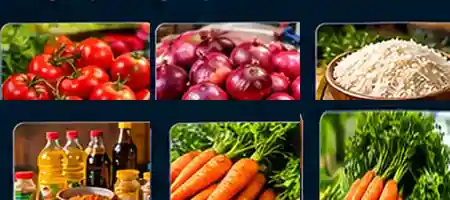
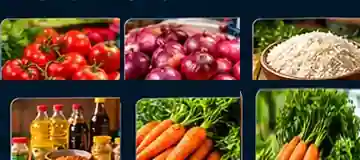
feat: deploy MarketLink dashboard imagery and strengthen tab navigation

diff --git a/frontend/premium-marketlink.js b/frontend/premium-marketlink.js
@@ -19,8 +19,8 @@
   var mlPromoIndex=0,mlPromoTimer=null,mlPromoTouchX=null,mlOnboardTimer=null;
   var mlPromoSlides=[
     {kind:'shop',eyebrow:'THE GAMBIA • LOCAL MARKETPLACE',title:'Groceries delivered',accent:'with care.',body:'Fresh produce, pantry essentials and everyday finds from local sellers across The Gambia.',pill:'SHOP YOUR LOCAL MARKET',image:'./assets/hero-marketlink-bag.webp',cta:'Browse products'},
-    {kind:'sell',eyebrow:'FOR LOCAL BUSINESSES',title:'Your shop. More customers.',accent:'Grow with MarketLink.',body:'Bring your business online, showcase your real products and manage incoming orders in one place.',pill:'SELL ON MARKETLINK',image:'./assets/promo-vendor.webp',cta:'Become a vendor'},
-    {kind:'affiliate',eyebrow:'MARKETLINK AFFILIATE PROGRAM',title:'Share a link.',accent:'Earn 2%.',body:'Share your affiliate link. Earn 2% of eligible discounted merchandise when a referred order is successfully delivered.',pill:'EARN ON ELIGIBLE PURCHASES',image:'./assets/promo-shopping.webp',cta:'Explore affiliate'}
+    {kind:'sell',eyebrow:'FOR LOCAL BUSINESSES',title:'Your shop. More customers.',accent:'Grow with MarketLink.',body:'Bring your business online, showcase your real products and manage incoming orders in one place.',pill:'SELL ON MARKETLINK',image:'./assets/marketlink-promo-atlas.webp',cta:'Become a vendor'},
+    {kind:'affiliate',eyebrow:'MARKETLINK AFFILIATE PROGRAM',title:'Share a link.',accent:'Earn 2%.',body:'Share your affiliate link. Earn 2% of eligible discounted merchandise when a referred order is successfully delivered.',pill:'EARN ON ELIGIBLE PURCHASES',image:'./assets/marketlink-promo-atlas.webp',cta:'Explore affiliate'}
   ];
   function promoSlideMarkup(index,cls){
     var p=mlPromoSlides[(Number(index)||0)%mlPromoSlides.length];
@@ -833,7 +833,7 @@
     if(tab==='home')renderHome();
     else if(tab==='cart')renderCart();
     else if(tab==='orders'){renderLiveOrders();if(typeof startOrderTracking==='function'&&S.order)startOrderTracking();}
-    else if(tab==='profile')renderProfile();
+    else if(tab==='profile'){if(typeof window.renderProfile==='function')window.renderProfile();else renderPremiumProfile();}
     else if(tab==='vendordash')renderVDash();
     else if(tab==='riderdash')renderRDash();
     else if(tab==='admindash')renderAdminDash();

diff --git a/frontend/premium-marketlink.css b/frontend/premium-marketlink.css
@@ -233,6 +233,10 @@
 .ml-promo-official .ml-promo-wordmark{display:block;width:90px;max-height:27px;object-fit:contain;object-position:left center}
 .ml-promo-shop .ml-promo-art-stamp{display:none}
 .ml-promo-shop .ml-promo-copy{padding-top:clamp(52px,7vw,78px)}
+/* Generated campaign atlas uses local-market art on the left and affiliate/sharing art on the right. */
+.ml-promo-sell{background-size:cover,200% 100%!important;background-position:center,left center!important}
+.ml-promo-affiliate{background-size:cover,200% 100%!important;background-position:center,right center!important}
+
 .ml-promo-carousel-head{align-items:center}
 .ml-cat{appearance:none;-webkit-appearance:none;display:flex;flex-direction:column;gap:8px;align-items:stretch;overflow:hidden;padding:0;min-width:110px;max-width:150px;border-radius:15px;color:inherit;text-align:left}
 .ml-cat-photo,.ml-category-photo{display:block;width:100%;aspect-ratio:1.3;background-image:url("./assets/marketlink-category-atlas.webp");background-size:300% 200%;background-repeat:no-repeat;background-position:var(--ml-category-position,0% 0%);background-color:#112b38}

diff --git a/frontend/MarketLink (7).html b/frontend/MarketLink (7).html
@@ -432,7 +432,7 @@ button:active{opacity:0.82;}
 .lm .fab-ai{box-shadow:0 4px 20px rgba(13,115,119,0.4);}
 
 </style>
-<link rel="stylesheet" href="./premium-marketlink.css?v=dashboard-20261012-r6-orders"><script src="./premium-marketlink.js?v=dashboard-20261012-r6-orders" defer></script></head>
+<link rel="stylesheet" href="./premium-marketlink.css?v=market-assets-20261012-r1"><script src="./premium-marketlink.js?v=market-assets-20261012-r1" defer></script></head>
 <body>
 <div id="app">
 <div id="toast"></div>

diff --git a/frontend/index.html b/frontend/index.html
@@ -432,7 +432,7 @@ button:active{opacity:0.82;}
 .lm .fab-ai{box-shadow:0 4px 20px rgba(13,115,119,0.4);}
 
 </style>
-<link rel="stylesheet" href="./premium-marketlink.css?v=dashboard-20261012-r6-orders"><script src="./premium-marketlink.js?v=dashboard-20261012-r6-orders" defer></script></head>
+<link rel="stylesheet" href="./premium-marketlink.css?v=market-assets-20261012-r1"><script src="./premium-marketlink.js?v=market-assets-20261012-r1" defer></script></head>
 <body>
 <div id="app">
 <div id="toast"></div>
